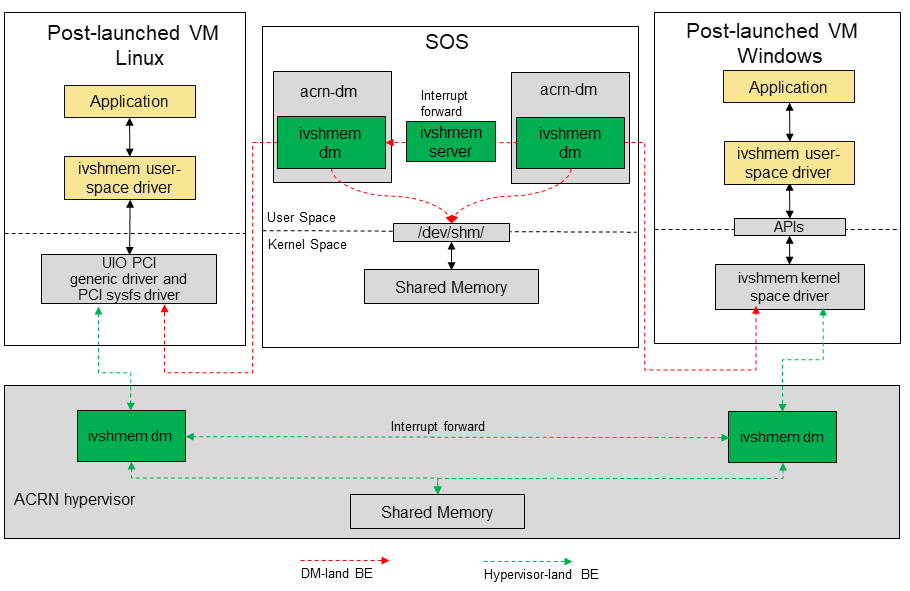
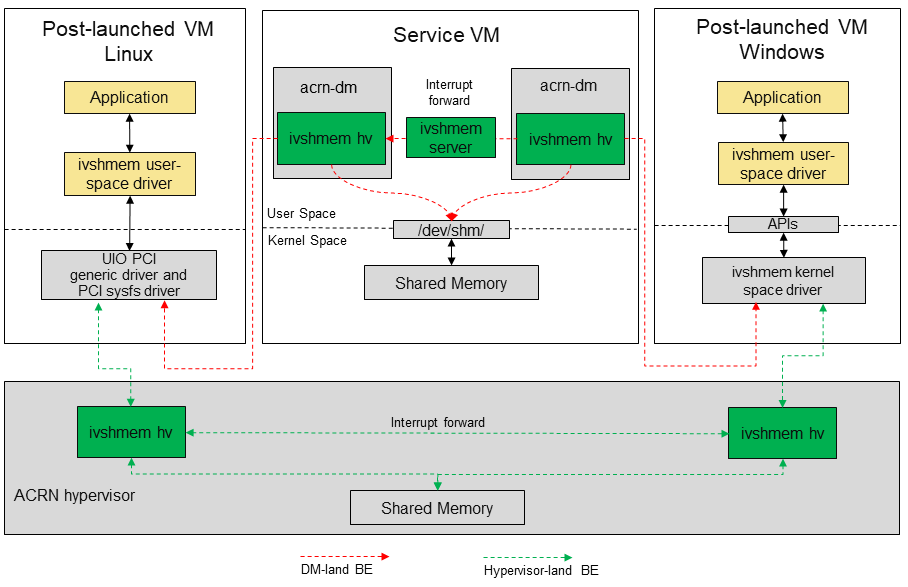
doc: more updates to ivshmem image and doc
Update image and doc with additional review comments

diff --git a/doc/developer-guides/hld/ivshmem-hld.rst b/doc/developer-guides/hld/ivshmem-hld.rst
@@ -28,14 +28,14 @@ VMs.
    would work for both pre-launched and post-launched VMs.
 
 
-ivshmem dm:
+ivshmem hv:
    The ivshmem device model implements register virtualization
-   and shared memory mapping. Will support notification/interrupt mechanism
-   in future.
+   and shared memory mapping in the hypervisor (not the acrn-dm).
+   Will support notification/interrupt mechanism in the future.
 
 ivshmem server:
    A daemon for inter-VM notification capability,
-   This is currently not implemented, so the inter-VM communication
+   This is currently **not implemented**, so the inter-VM communication
    doesn't support a notification mechanism.
 
 Ivshmem Device Introduction
@@ -98,7 +98,7 @@ Usage
 To support two post-launched VMs communicating via an ``ivshmem`` device,
 add this line as an acrn-dm boot parameter::
 
-  -s slot, ivshmem, shm_name, shm_size
+  -s slot,ivshmem,shm_name,shm_size
 
 where
 
